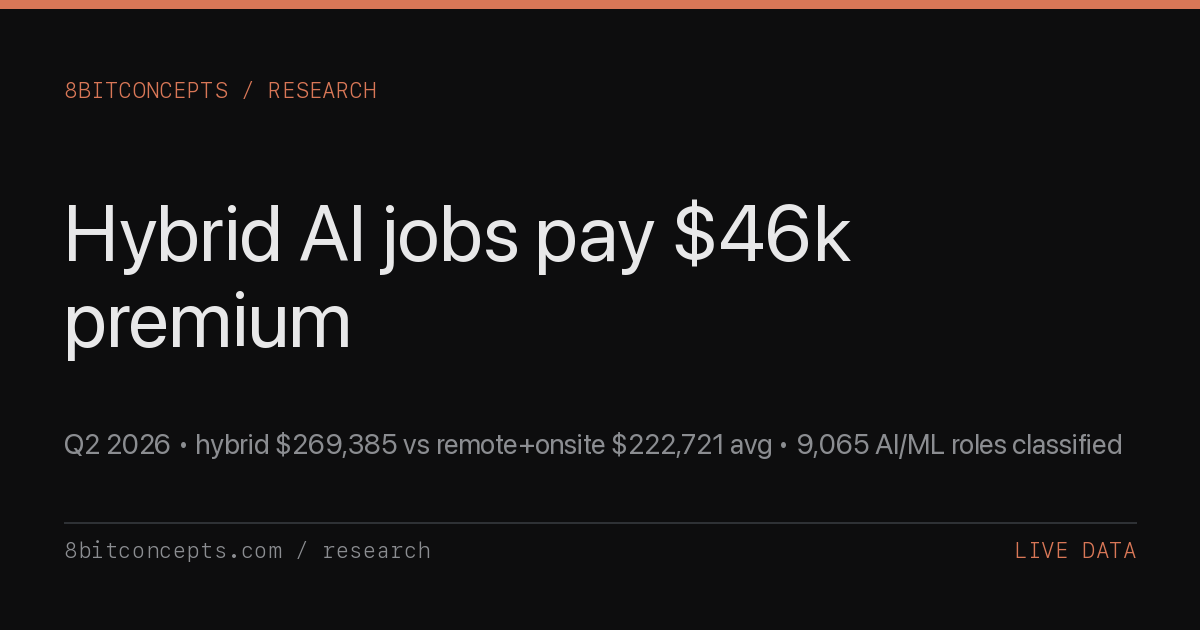
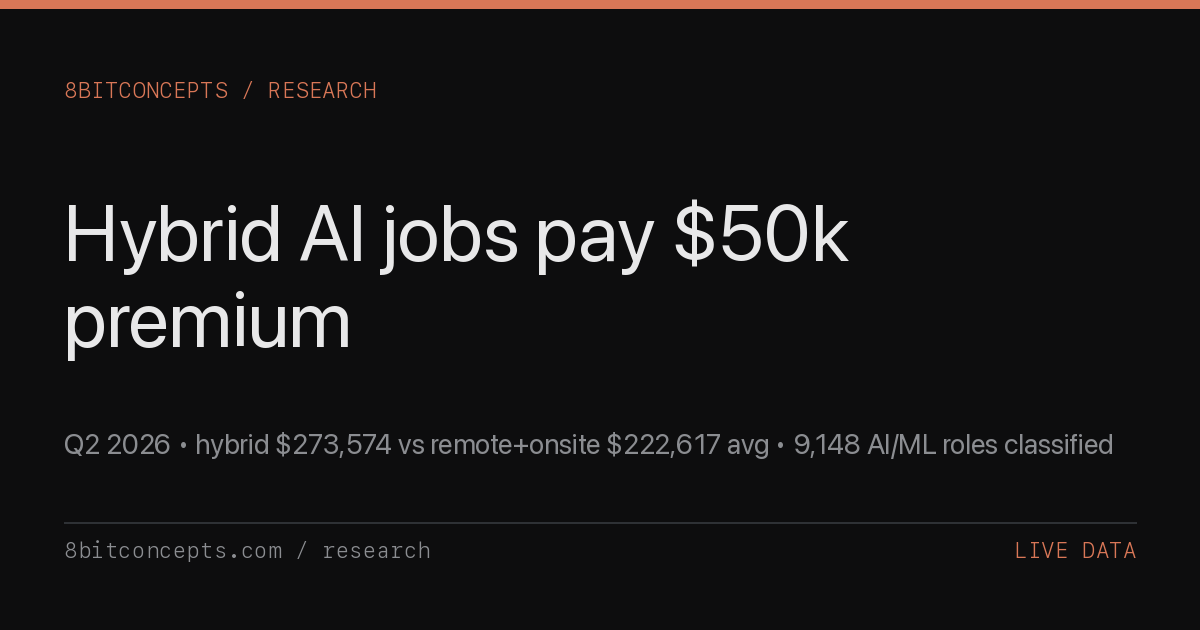
remote-vs-onsite: auto-regenerate 2026-07-27

Changed region(s): [[0.2467, 0.6635, 0.9558, 0.7238], [0.5858, 0.3317, 0.7092, 0.4222]]

diff --git a/research/q2-2026-remote-vs-onsite-ai-hiring.html b/research/q2-2026-remote-vs-onsite-ai-hiring.html
@@ -5,11 +5,11 @@
   <meta name="viewport" content="width=device-width, initial-scale=1.0" />
   <meta name="referrer" content="strict-origin-when-cross-origin" />
   <meta name="color-scheme" content="dark light" />
-  <meta name="last-updated" content="2026-07-20" />
+  <meta name="last-updated" content="2026-07-27" />
   <title>Q2 2026 Remote vs Onsite AI Hiring -- 8bitconcepts</title>
-  <meta name="description" content="Live AI engineering workplace analysis: hybrid averages $269,385, remote $225,070, onsite $221,479 across 9,065 classified roles. 54% onsite, 29% remote, 17% hybrid. Auto-regenerated weekly." />
+  <meta name="description" content="Live AI engineering workplace analysis: hybrid averages $273,574, remote $225,778, onsite $220,925 across 9,148 classified roles. 54% onsite, 29% remote, 18% hybrid. Auto-regenerated weekly." />
   <meta property="og:title" content="Q2 2026 Remote vs Onsite AI Hiring -- 8bitconcepts" />
-  <meta property="og:description" content="Hybrid AI/ML: $269,385 avg. Remote: $225,070. Onsite: $221,479. 54% of AI/ML roles still require full onsite attendance across 9,065 classified postings. Live data, 2026-07-20." />
+  <meta property="og:description" content="Hybrid AI/ML: $273,574 avg. Remote: $225,778. Onsite: $220,925. 54% of AI/ML roles still require full onsite attendance across 9,148 classified postings. Live data, 2026-07-27." />
   <meta property="og:type" content="article" />
   <meta property="og:url" content="https://8bitconcepts.com/research/q2-2026-remote-vs-onsite-ai-hiring.html" />
   <meta property="og:image" content="https://8bitconcepts.com/research/og/q2-2026-remote-vs-onsite-ai-hiring.png" />
@@ -17,7 +17,7 @@
   <meta property="og:image:height" content="630" />
   <meta name="twitter:card" content="summary_large_image" />
   <meta name="twitter:title" content="Q2 2026 Remote vs Onsite AI Hiring" />
-  <meta name="twitter:description" content="AI/ML workplace mix: hybrid $269,385 avg, remote $225,070, onsite $221,479. 54% onsite-only. 2026-07-20." />
+  <meta name="twitter:description" content="AI/ML workplace mix: hybrid $273,574 avg, remote $225,778, onsite $220,925. 54% onsite-only. 2026-07-27." />
   <meta name="twitter:image" content="https://8bitconcepts.com/research/og/q2-2026-remote-vs-onsite-ai-hiring.png" />
   <link rel="canonical" href="https://8bitconcepts.com/research/q2-2026-remote-vs-onsite-ai-hiring.html" />
   <link rel="preconnect" href="https://fonts.googleapis.com" />
@@ -478,10 +478,10 @@
     "@context": "https://schema.org",
     "@type": "Article",
     "headline": "Q2 2026 Remote vs Onsite AI Hiring",
-    "description": "Live analysis of remote vs onsite vs hybrid AI/ML engineering roles from aidevboard.com: workplace mix, salary by workplace, onsite-heavy and remote-friendly companies, and the hybrid-premium anomaly across 9,065 classified postings.",
+    "description": "Live analysis of remote vs onsite vs hybrid AI/ML engineering roles from aidevboard.com: workplace mix, salary by workplace, onsite-heavy and remote-friendly companies, and the hybrid-premium anomaly across 9,148 classified postings.",
     "url": "https://8bitconcepts.com/research/q2-2026-remote-vs-onsite-ai-hiring.html",
     "datePublished": "2026-04-17",
-    "dateModified": "2026-07-20",
+    "dateModified": "2026-07-27",
     "author": {"@type": "Organization", "name": "8bitconcepts", "url": "https://8bitconcepts.com"},
     "publisher": {"@type": "Organization", "name": "8bitconcepts", "url": "https://8bitconcepts.com"},
     "image": "https://8bitconcepts.com/research/og/q2-2026-remote-vs-onsite-ai-hiring.png",
@@ -521,10 +521,10 @@
 
     <h1>Q2 2026 Remote vs Onsite AI Hiring</h1>
 
-    <p class="subtitle">Live workplace data from 9,065 classified AI/ML engineering roles. Hybrid averages $269,385, remote $225,070, onsite $221,479. 54% of AI/ML roles still require full onsite attendance. Data pulled from <a href="https://aidevboard.com/api/v1/stats">aidevboard.com/api/v1/stats</a>.</p>
+    <p class="subtitle">Live workplace data from 9,148 classified AI/ML engineering roles. Hybrid averages $273,574, remote $225,778, onsite $220,925. 54% of AI/ML roles still require full onsite attendance. Data pulled from <a href="https://aidevboard.com/api/v1/stats">aidevboard.com/api/v1/stats</a>.</p>
 
     <div class="meta">
-      <span class="meta-date">2026-07-20</span>
+      <span class="meta-date">2026-07-27</span>
       <span class="meta-tag">Live Data</span>
       <span class="meta-read">~800 words</span>
     </div>
@@ -533,26 +533,26 @@
 
       <h2>Executive summary</h2>
 
-      <p>Hybrid AI/ML roles pay a <strong>$46k premium</strong> over the remote + onsite weighted average ($269,385 vs $222,721). Remote averages $225,070. Onsite averages $221,479. The most surprising line in the data isn't the remote-vs-onsite pay gap &mdash; it's that the middle-ground arrangement, which many companies pitched as a compromise, is where compensation actually lands highest.</p>
+      <p>Hybrid AI/ML roles pay a <strong>$50k premium</strong> over the remote + onsite weighted average ($273,574 vs $222,617). Remote averages $225,778. Onsite averages $220,925. The most surprising line in the data isn't the remote-vs-onsite pay gap &mdash; it's that the middle-ground arrangement, which many companies pitched as a compromise, is where compensation actually lands highest.</p>
 
       <div class="stat-row">
         <div class="stat-box">
-          <div class="stat-num">$269,385</div>
-          <div class="stat-label">average hybrid AI/ML salary &mdash; the top band across 9,065 classified roles</div>
+          <div class="stat-num">$273,574</div>
+          <div class="stat-label">average hybrid AI/ML salary &mdash; the top band across 9,148 classified roles</div>
         </div>
         <div class="stat-box">
           <div class="stat-num">54%</div>
-          <div class="stat-label">of roles still require full onsite attendance (4,897 of 9,065)</div>
+          <div class="stat-label">of roles still require full onsite attendance (4,910 of 9,148)</div>
         </div>
         <div class="stat-box">
-          <div class="stat-num">$225,070</div>
-          <div class="stat-label">average fully-remote AI/ML salary across 2,592 postings</div>
+          <div class="stat-num">$225,778</div>
+          <div class="stat-label">average fully-remote AI/ML salary across 2,629 postings</div>
         </div>
       </div>
 
       <h2>Top-line workplace mix</h2>
 
-      <p>Across the 9,065 AI/ML engineering postings with a workplace classification, onsite is still the dominant mode &mdash; not by a small margin. Hybrid is the smallest bucket but commands the highest average advertised salary.</p>
+      <p>Across the 9,148 AI/ML engineering postings with a workplace classification, onsite is still the dominant mode &mdash; not by a small margin. Hybrid is the smallest bucket but commands the highest average advertised salary.</p>
 
       <table class="data-table">
         <thead>
@@ -564,17 +564,17 @@
           </tr>
         </thead>
         <tbody>
-          <tr><td>Onsite</td><td class="num">4,897</td><td class="num">54.0%</td><td class="num">$221,479</td></tr>
-          <tr><td>Remote</td><td class="num">2,592</td><td class="num">28.6%</td><td class="num">$225,070</td></tr>
-          <tr><td>Hybrid</td><td class="num">1,576</td><td class="num">17.4%</td><td class="num">$269,385</td></tr>
+          <tr><td>Onsite</td><td class="num">4,910</td><td class="num">53.7%</td><td class="num">$220,925</td></tr>
+          <tr><td>Remote</td><td class="num">2,629</td><td class="num">28.7%</td><td class="num">$225,778</td></tr>
+          <tr><td>Hybrid</td><td class="num">1,609</td><td class="num">17.6%</td><td class="num">$273,574</td></tr>
         </tbody>
       </table>
 
       <h2>The hybrid premium</h2>
 
-      <p>Why does the middle option pay the most? Two factors explain most of the premium. <strong>First, seniority.</strong> Hybrid roles skew toward staff, lead, and principal bands &mdash; the levels where companies want engineers in the office for architecture discussions and design reviews but accept that 30+ year-old senior engineers won't relocate full-time. The salary endpoint reports a single weighted average of $232,155 across all salary-disclosed roles, and the hybrid band sits <strong>$+37k</strong> above that global average &mdash; that's not a remote-work discount, it's a seniority mix.</p>
+      <p>Why does the middle option pay the most? Two factors explain most of the premium. <strong>First, seniority.</strong> Hybrid roles skew toward staff, lead, and principal bands &mdash; the levels where companies want engineers in the office for architecture discussions and design reviews but accept that 30+ year-old senior engineers won't relocate full-time. The salary endpoint reports a single weighted average of $232,885 across all salary-disclosed roles, and the hybrid band sits <strong>$+40k</strong> above that global average &mdash; that's not a remote-work discount, it's a seniority mix.</p>
 
-      <p><strong>Second, geography.</strong> Hybrid postings anchor to a specific metro (usually San Francisco, New York, or Seattle) and inherit that metro's pay band. Remote postings in the same index compete with distributed talent from lower-cost geographies and from candidates who've already priced remote work into their expectations. The $225,070 remote average still out-earns most non-AI engineering roles, but it reflects a broader supply pool than the $269,385 hybrid average does. The practical read: hybrid is where AI companies are paying SF+NYC premiums <em>plus</em> demanding most-week attendance. It's the most expensive arrangement to hire into because it selects the most constrained candidate pool.</p>
+      <p><strong>Second, geography.</strong> Hybrid postings anchor to a specific metro (usually San Francisco, New York, or Seattle) and inherit that metro's pay band. Remote postings in the same index compete with distributed talent from lower-cost geographies and from candidates who've already priced remote work into their expectations. The $225,778 remote average still out-earns most non-AI engineering roles, but it reflects a broader supply pool than the $273,574 hybrid average does. The practical read: hybrid is where AI companies are paying SF+NYC premiums <em>plus</em> demanding most-week attendance. It's the most expensive arrangement to hire into because it selects the most constrained candidate pool.</p>
 
       <div class="callout">
         <p>The industry lore says remote kills the pay premium. The live index says otherwise: the middle-ground workplace arrangement wins on absolute dollars, and it wins because it concentrates SF/NYC metros and staff+ seniority into the same candidate pool.</p>
@@ -594,16 +594,16 @@
           </tr>
         </thead>
         <tbody>
-          <tr><td>Scale AI</td><td class="num">52</td><td class="num">52</td><td class="num">100%</td></tr>
-          <tr><td>Databricks</td><td class="num">41</td><td class="num">41</td><td class="num">100%</td></tr>
-          <tr><td>Glean</td><td class="num">29</td><td class="num">29</td><td class="num">100%</td></tr>
+          <tr><td>Scale AI</td><td class="num">54</td><td class="num">54</td><td class="num">100%</td></tr>
+          <tr><td>Databricks</td><td class="num">43</td><td class="num">43</td><td class="num">100%</td></tr>
           <tr><td>Lila Sciences</td><td class="num">26</td><td class="num">26</td><td class="num">100%</td></tr>
-          <tr><td>Thinking Machines</td><td class="num">23</td><td class="num">23</td><td class="num">100%</td></tr>
+          <tr><td>Thinking Machines</td><td class="num">24</td><td class="num">24</td><td class="num">100%</td></tr>
+          <tr><td>Glean</td><td class="num">23</td><td class="num">23</td><td class="num">100%</td></tr>
           <tr><td>CoreWeave</td><td class="num">20</td><td class="num">20</td><td class="num">100%</td></tr>
-          <tr><td>C3 AI</td><td class="num">18</td><td class="num">18</td><td class="num">100%</td></tr>
-          <tr><td>Together AI</td><td class="num">16</td><td class="num">16</td><td class="num">100%</td></tr>
-          <tr><td>Roblox</td><td class="num">15</td><td class="num">15</td><td class="num">100%</td></tr>
-          <tr><td>Anduril</td><td class="num">96</td><td class="num">95</td><td class="num">99%</td></tr>
+          <tr><td>C3 AI</td><td class="num">17</td><td class="num">17</td><td class="num">100%</td></tr>
+          <tr><td>DoorDash</td><td class="num">15</td><td class="num">15</td><td class="num">100%</td></tr>
+          <tr><td>Anduril</td><td class="num">95</td><td class="num">94</td><td class="num">99%</td></tr>
+          <tr><td>Block</td><td class="num">16</td><td class="num">14</td><td class="num">88%</td></tr>
         </tbody>
       </table>
 
@@ -622,12 +622,11 @@
         </thead>
         <tbody>
           <tr><td>Instacart</td><td class="num">13</td><td class="num">13</td><td class="num">100%</td></tr>
-          <tr><td>Reddit</td><td class="num">27</td><td class="num">24</td><td class="num">89%</td></tr>
-          <tr><td>Harvey AI</td><td class="num">22</td><td class="num">19</td><td class="num">86%</td></tr>
-          <tr><td>Torc Robotics</td><td class="num">12</td><td class="num">8</td><td class="num">67%</td></tr>
-          <tr><td>Nebius</td><td class="num">16</td><td class="num">10</td><td class="num">62%</td></tr>
-          <tr><td>Pinterest</td><td class="num">26</td><td class="num">16</td><td class="num">62%</td></tr>
-          <tr><td>May Mobility</td><td class="num">18</td><td class="num">10</td><td class="num">56%</td></tr>
+          <tr><td>Reddit</td><td class="num">28</td><td class="num">25</td><td class="num">89%</td></tr>
+          <tr><td>Harvey AI</td><td class="num">23</td><td class="num">19</td><td class="num">83%</td></tr>
+          <tr><td>Torc Robotics</td><td class="num">12</td><td class="num">7</td><td class="num">58%</td></tr>
+          <tr><td>Pinterest</td><td class="num">25</td><td class="num">14</td><td class="num">56%</td></tr>
+          <tr><td>May Mobility</td><td class="num">19</td><td class="num">10</td><td class="num">53%</td></tr>
         </tbody>
       </table>
 
@@ -638,32 +637,32 @@
       <div class="bar-chart">
         <div class="bar-row">
           <div class="bar-label">Onsite</div>
-          <div class="bar-wrap"><div class="bar" style="width:82.2%;"></div></div>
-          <div class="bar-value">$221,479</div>
+          <div class="bar-wrap"><div class="bar" style="width:80.8%;"></div></div>
+          <div class="bar-value">$220,925</div>
         </div>
         <div class="bar-row">
           <div class="bar-label">Remote</div>
-          <div class="bar-wrap"><div class="bar" style="width:83.5%;"></div></div>
-          <div class="bar-value">$225,070</div>
+          <div class="bar-wrap"><div class="bar" style="width:82.5%;"></div></div>
+          <div class="bar-value">$225,778</div>
         </div>
         <div class="bar-row">
           <div class="bar-label">Hybrid</div>
           <div class="bar-wrap"><div class="bar" style="width:100.0%;"></div></div>
-          <div class="bar-value">$269,385</div>
+          <div class="bar-value">$273,574</div>
         </div>
       </div>
 
       <h2>Regional bias</h2>
 
-      <p><strong>Regional bias caveat.</strong> The AI Dev Jobs index over-represents US-based postings. US pay-transparency laws (California, New York, Washington, Colorado) drive salary disclosure, so US postings are weighted more heavily in the salary averages than in the posting counts. European and APAC AI/ML roles are present in the index but many publish salary as &quot;competitive&quot; and drop out of the $3,522-posting salary-disclosed subset. Remote postings in particular often advertise a US-only salary range even when they're open globally &mdash; interpret the <code>$</code> figures as US-anchored.</p>
+      <p><strong>Regional bias caveat.</strong> The AI Dev Jobs index over-represents US-based postings. US pay-transparency laws (California, New York, Washington, Colorado) drive salary disclosure, so US postings are weighted more heavily in the salary averages than in the posting counts. European and APAC AI/ML roles are present in the index but many publish salary as &quot;competitive&quot; and drop out of the $3,536-posting salary-disclosed subset. Remote postings in particular often advertise a US-only salary range even when they're open globally &mdash; interpret the <code>$</code> figures as US-anchored.</p>
 
       <h2>Practical takeaway</h2>
 
-      <p><strong>If you're choosing what to apply for.</strong> The headline-grabbing remote-vs-onsite framing is the wrong axis. Hybrid is the highest-paying band because it picks up SF/NYC salary floors <em>plus</em> senior/staff+ level mix. If you have the flexibility to be in-office 2-3 days a week in a major metro, hybrid is where the dollars land. If you need fully remote, target the remote-friendly companies in the table above &mdash; they set the remote floor higher than the $225,070 index average. If you're early-career, onsite roles at robotics, autonomous-vehicle, and frontier labs are where the 54% onsite share concentrates &mdash; lean in, physical-AI work is where onsite still pays real premiums.</p>
+      <p><strong>If you're choosing what to apply for.</strong> The headline-grabbing remote-vs-onsite framing is the wrong axis. Hybrid is the highest-paying band because it picks up SF/NYC salary floors <em>plus</em> senior/staff+ level mix. If you have the flexibility to be in-office 2-3 days a week in a major metro, hybrid is where the dollars land. If you need fully remote, target the remote-friendly companies in the table above &mdash; they set the remote floor higher than the $225,778 index average. If you're early-career, onsite roles at robotics, autonomous-vehicle, and frontier labs are where the 54% onsite share concentrates &mdash; lean in, physical-AI work is where onsite still pays real premiums.</p>
 
       <h2>Methodology</h2>
 
-      <p>Generated from the live <a href="https://aidevboard.com/api/v1/stats">aidevboard.com/api/v1/stats</a> endpoint (public, unauthenticated) plus a paginated walk of <a href="https://aidevboard.com/api/v1/jobs">/api/v1/jobs</a> for per-company workplace aggregation. Index scrapes 560+ ATS sources on a daily cron and deduplicates by (company, title, location). The <code>workplace</code> field is classified by a rules-based parser from job-title + description + location signals; edge cases ("hybrid, 3 days", "flexible", "in-person preferred") are normalized into the three canonical buckets. Of 9,065 roles in the index, 9,065 have a non-empty workplace classification; the rest are silently excluded from this analysis. Salary averages use employer-advertised midpoints from the 3,522-posting salary-disclosed subset. This page auto-regenerates weekly (Mon 9:00 am PT).</p>
+      <p>Generated from the live <a href="https://aidevboard.com/api/v1/stats">aidevboard.com/api/v1/stats</a> endpoint (public, unauthenticated) plus a paginated walk of <a href="https://aidevboard.com/api/v1/jobs">/api/v1/jobs</a> for per-company workplace aggregation. Index scrapes 560+ ATS sources on a daily cron and deduplicates by (company, title, location). The <code>workplace</code> field is classified by a rules-based parser from job-title + description + location signals; edge cases ("hybrid, 3 days", "flexible", "in-person preferred") are normalized into the three canonical buckets. Of 9,148 roles in the index, 9,148 have a non-empty workplace classification; the rest are silently excluded from this analysis. Salary averages use employer-advertised midpoints from the 3,536-posting salary-disclosed subset. This page auto-regenerates weekly (Mon 9:00 am PT).</p>
 
       <p><strong>Download raw data:</strong> The workplace-by-salary dataset is mirrored as a public gist &mdash; <a href="https://gist.githubusercontent.com/unitedideas/680cc4c1d11e090814bdf132e155d6d1/raw/ai-workplace.csv">CSV</a> &middot; <a href="https://gist.githubusercontent.com/unitedideas/680cc4c1d11e090814bdf132e155d6d1/raw/ai-workplace.md">Markdown</a> &middot; <a href="https://gist.github.com/unitedideas/680cc4c1d11e090814bdf132e155d6d1">view on GitHub</a>. Auto-updated every weekly regeneration; canonical raw URLs are stable across revisions.</p>
 
@@ -713,7 +712,7 @@
     <div class="footnotes">
       <h4>Sources</h4>
       <ol>
-        <li>AI Dev Jobs &mdash; <a href="https://aidevboard.com/api/v1/stats">/api/v1/stats</a>, pulled 2026-07-20T16:00:01Z. Public unauthenticated endpoint.</li>
+        <li>AI Dev Jobs &mdash; <a href="https://aidevboard.com/api/v1/stats">/api/v1/stats</a>, pulled 2026-07-27T16:00:04Z. Public unauthenticated endpoint.</li>
         <li>AI Dev Jobs &mdash; <a href="https://aidevboard.com/api/v1/jobs">/api/v1/jobs</a>, paginated walk for per-company workplace aggregation.</li>
         <li>Workplace classification is derived from job-title + description + location signals by a rules-based parser. Edge cases ("hybrid, 3 days", "flexible", "in-person preferred") are normalized into the three canonical buckets onsite / remote / hybrid.</li>
         <li>Salary figures are employer-advertised midpoints from public ATS feeds. US pay-transparency laws drive the disclosure rates so the dataset over-represents California, New York, Washington, and Colorado.</li>
